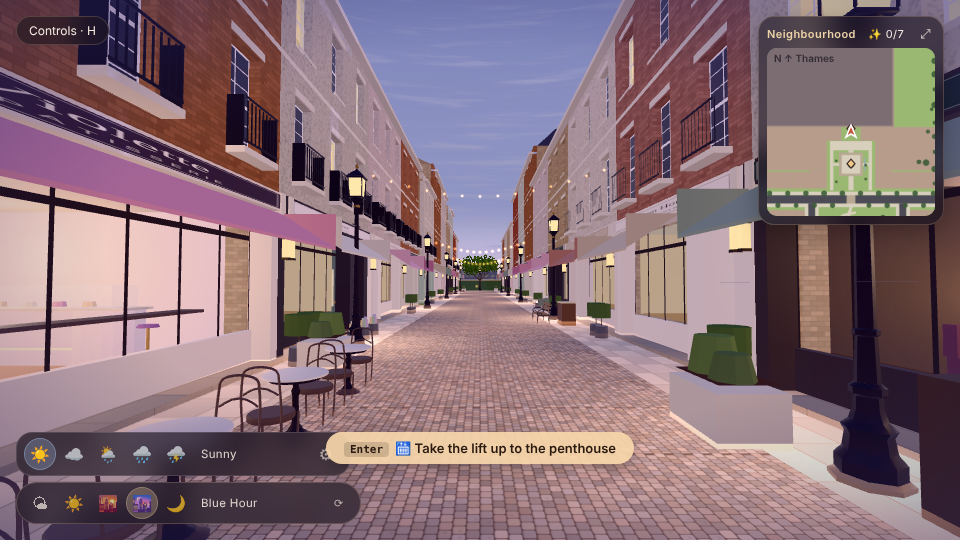
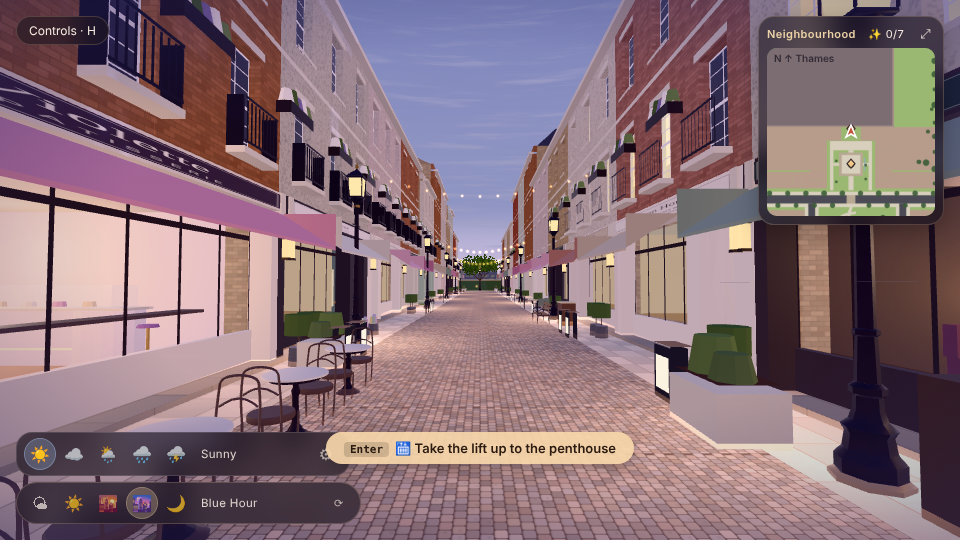
Shopping street: window boxes, A-frame boards, plum awning and wisteria on Café Violette
Claude-Session: https://claude.ai/code/session_017ZtboRbFUCo4FCo9fUW3pH

diff --git a/src/street/plan.js b/src/street/plan.js
@@ -603,7 +603,7 @@ export function buildStreet() {
       { w: 6.2, sign: 7, awning: '#8d9a85', wall: 'brick', main: PAL.brick, stall: '#e8dcc6', door: '#2d3345' },
     ]
     const SOUTH = [
-      { id: 'cafe', w: 9.4, sign: 0, awning: '#cf8f9c', wall: 'brick', main: PAL.brick, stall: '#e0d2bd', door: '#2b2630' },
+      { id: 'cafe', w: 9.4, sign: 0, awning: '#5b3a63', wall: 'brick', main: PAL.brick, stall: '#e0d2bd', door: '#2b2630' },
       { id: 'florist', w: 6.4, sign: 2, awning: '#d9cdb8', wall: 'plaster', main: '#cfc7b6', stall: '#2f2b2c', door: '#41584a' },
       { w: 6.0, sign: 4, awning: '#d9a8ae', wall: 'plaster', main: '#d9c9bf', stall: '#ece0c8', door: '#4d3548' },
       { w: 5.8, sign: 6, awning: '#b9778a', wall: 'brick', main: '#b0785a', stall: '#d8ceb4', door: '#2b2630' },
@@ -623,9 +623,11 @@ export function buildStreet() {
         if (sp.passage) { const px = x - sp.passage * k / 2; pois.passage = { x: px, z: LS + 1 }; x -= sp.passage * k; continue }
         const w = sp.w * k, xc = x - w / 2; x -= w
         const F = row > 0 ? frame(xc, LN, 0, GY) : frame(xc, LS, Math.PI, GY)
-        shopBuilding(ch, F, { w, d: 12, floors: R() < 0.3 ? 4 : 3, wall: sp.wall, main: sp.main, sign: sp.sign, awning: sp.awning, stall: sp.stall, door: sp.door, doorSide: ((v) => (sp.id === 'cafe' ? 'l' : v))(R() < 0.5 ? 'l' : 'r'), balc: R() < 0.5, roof: R() < 0.55 ? 'gable' : 'hip', side: PAL.stock, interior: sp.id === 'cafe' ? (c2, F2, cc) => { pois.cafeDoor = (([x, , z]) => ({ x, z }))(toWorld(F2, cc.dx, 0, 0.8)); pois.cafeIn = (([x, , z]) => ({ x, z }))(toWorld(F2, cc.dx, 0, -3)); cafeInterior(c2, F2, cc, lightsAt) } : sp.id === 'books' ? (c2, F2, cc) => { pois.booksDoor = (([x, , z]) => ({ x, z }))(toWorld(F2, cc.dx, 0, 0.8)); pois.booksIn = (([x, , z]) => ({ x, z }))(toWorld(F2, cc.dx, 0, -3)); bookInterior(c2, F2, cc, lightsAt) } : undefined })
+        const shopRes = shopBuilding(ch, F, { w, d: 12, floors: R() < 0.3 ? 4 : 3, wall: sp.wall, main: sp.main, sign: sp.sign, awning: sp.awning, stall: sp.stall, door: sp.door, doorSide: ((v) => (sp.id === 'cafe' ? 'l' : v))(R() < 0.5 ? 'l' : 'r'), balc: R() < 0.5, roof: R() < 0.55 ? 'gable' : 'hip', side: PAL.stock, noFlowers: sp.id === 'books', interior: sp.id === 'cafe' ? (c2, F2, cc) => { pois.cafeDoor = (([x, , z]) => ({ x, z }))(toWorld(F2, cc.dx, 0, 0.8)); pois.cafeIn = (([x, , z]) => ({ x, z }))(toWorld(F2, cc.dx, 0, -3)); cafeInterior(c2, F2, cc, lightsAt) } : sp.id === 'books' ? (c2, F2, cc) => { pois.booksDoor = (([x, , z]) => ({ x, z }))(toWorld(F2, cc.dx, 0, 0.8)); pois.booksIn = (([x, , z]) => ({ x, z }))(toWorld(F2, cc.dx, 0, -3)); bookInterior(c2, F2, cc, lightsAt) } : undefined })
         const zf = row > 0 ? LN : LS, dir = row > 0 ? 1 : -1                                              // dir = into the lane
+        { const sx = shopRes.dx > 0 ? -1 : 1, bx = sx * (w / 2 - 0.55), FA = frame(xc, zf, row > 0 ? 0 : Math.PI, GY); ch.box(FA, bx - 0.28, bx + 0.28, 0.0, 0.85, 1.45, 1.52, col('#26292a'), 'trim', 'fb', 1, 1, 0); ch.box(FA, bx - 0.28, bx + 0.28, 0.0, 0.85, 1.7, 1.77, col('#26292a'), 'trim', 'fb', 1, 1, 0); ch.box(FA, bx - 0.3, bx + 0.3, 0.84, 0.88, 1.43, 1.79, col('#8a6a4a'), 'wood', 'u', 1, 1, 0); ch.box(FA, bx - 0.22, bx + 0.22, 0.2, 0.7, 1.77, 1.775, col('#efe6d6'), 'glow', 'f', 1, 1, 0); ch.solid(FA, bx - 0.3, bx + 0.3, 0, 0.9, 1.4, 1.8, 'sign') }
         if (sp.id === 'cafe') { for (let i = 0; i < 4; i++) { const tx = xc + (i - 1.5) * 1.9, tz = zf + dir * 2.4; put('table', tx, tz, 0); put('chair', tx - 0.55, tz, Math.PI / 2); put('chair', tx + 0.55, tz, -Math.PI / 2) } put('planter', xc - w / 2 + 0.5, zf + dir * 1.3, 0, 1.0); put('planter', xc + w / 2 - 0.5, zf + dir * 1.3, 0, 1.0) }
+        if (sp.id === 'cafe') { const FW = frame(xc, zf, Math.PI, GY), RW = rng(91); for (let i = 0; i < 90; i++) { const x = -w / 2 + 0.2 + RW() * (w - 0.4), y = 4.3 + RW() * 1.7, len = 0.5 + RW() * 0.8; ch.prism(FW, x, 0.42 + RW() * 0.12, 0.075, 0.015, y - len, y, col(['#9a82b5', '#b39bc8', '#82749a', '#c9b3d6'][i % 4]), 'leaf', 6, false); if (i % 3 === 0) ch.prism(FW, x + 0.1, 0.4, 0.3, 0.2, y, y + 0.22, col('#5f7a47'), 'leaf', 7) } }   // wisteria draped over the café frontage (Bible s13)
         if (sp.id === 'florist') { for (let i = 0; i < 3; i++) { const fx = xc + (i - 1) * 1.1, fz = zf + dir * 0.9; ch.prism(frame(fx, fz, 0, GY), 0, 0, 0.2, 0.17, 0, 0.42, col('#6b6a70'), 'metal', 8); for (let j = 0; j < 5; j++) ch.prism(frame(fx + (j - 2) * 0.06, fz + ((j % 2) - 0.5) * 0.08, 0, GY), 0, 0, 0.07, 0.05, 0.42, 0.64 + (j % 3) * 0.05, col(['#cfa9ad', '#e4d9cb', '#b7a5c4', '#d9c08a', '#a9b39a'][j]), 'leaf', 6) } }
         if (sp.id === 'books') { ch.box(frame(xc, zf + dir * 0.9, row > 0 ? 0 : Math.PI, GY), -0.6, 0.6, 0, 1.1, -0.25, 0.25, col('#4a3a2c'), 'wood', 'fulrb'); ch.solid(frame(xc, zf + dir * 0.9, 0, GY), -0.6, 0.6, 0, 1.1, -0.25, 0.25, 'cart') }
         if (sp.id === 'bakery') { ch.box(frame(xc, zf + dir * 0.9, 0, GY), -0.5, 0.5, 0, 0.95, -0.28, 0.28, col('#6a4d3a'), 'wood', 'fulrb'); ch.box(frame(xc, zf + dir * 0.9, 0, GY), -0.52, 0.52, 0.95, 1.0, -0.3, 0.3, col('#d9c9a0'), 'trim', 'fulrb') }

diff --git a/src/street/buildings.js b/src/street/buildings.js
@@ -236,7 +236,7 @@ export function shopBuilding(ch, F, o) {
     const winH = f === 1 ? 2.1 : 1.85, sill = f === 1 ? 0.55 : 0.6, ww = 1.0
     for (let b = 0; b < nb; b++) { const cx = (b + 0.5) * w / nb - w / 2; ops.push({ x0: cx - ww / 2, x1: cx + ww / 2, sill, head: sill + winH }) }
     rowWall(ch, F, -w / 2, w / 2, yy0, yy1, ops, t, main, key, su, sv)
-    for (let b = 0; b < nb; b++) { const cx = (b + 0.5) * w / nb - w / 2; sash(ch, F, cx, yy0 + sill, ww, winH, t, { lit: R() < 0.3, stone, trim }); if (f === 1 && o.balc) balconette(ch, F, cx, yy0 + sill, ww, {}) }
+    for (let b = 0; b < nb; b++) { const cx = (b + 0.5) * w / nb - w / 2; sash(ch, F, cx, yy0 + sill, ww, winH, t, { lit: R() < 0.3, stone, trim }); if (f === 1 && o.balc) { balconette(ch, F, cx, yy0 + sill, ww, {}); if (!o.noFlowers) { ch.box(F, cx - ww / 2, cx + ww / 2, yy0 + sill + 0.62, yy0 + sill + 0.84, 0.82, 1.1, col('#2b2623'), 'metal', 'fulrb', 1, 1, 0); for (let k = 0; k < 5; k++) ch.prism(F, cx - ww / 2 + 0.1 + k * (ww - 0.2) / 4, 0.96, 0.14, 0.09, yy0 + sill + 0.84, yy0 + sill + 1.08 + (k % 2) * 0.06, col(['#edE6d7', '#4e6139', '#82749a', '#edE6d7', '#718451'][k]), 'leaf', 7) } } }
     ch.box(F, -w / 2 - 0.02, w / 2 + 0.02, yy0 - 0.06, yy0 + 0.06, -0.02, 0.06, stone, 'trim', 'fu')
   }
   void top

diff --git a/docs/bible/PROGRESS.md b/docs/bible/PROGRESS.md
@@ -5,3 +5,4 @@
 - s06 ground-floor lobby rebuilt in plan.js (D-003). s07 entrance glazing (D-004). s08 courtyard planter (D-005). s09 three-tier fountain.
 - s13 Café Violette + s14 The Quiet Page walkable interiors (D-006); rain exclusion zones (D-007).
 - Not started / partial: s10 Maison Home/Café Vivienne façades, s11 Maison Sauvage/Papier & Co., s12 shopping street cinematic pass, s15 riverside promenade, foliage rebuild, time-of-day matrix for new spaces, M2 perf, gate evidence G1–G8.
+- Shopping street pass 1: window boxes (not on the bookshop), A-frame blackboards, plum awning + wisteria on Café Violette, foliage greens/finer leaf cards. Still open: cobble variation, string-light density, Blender-baked props, matched-camera BEFORE/BLENDER/LOCALHOST triplets for every environment.
